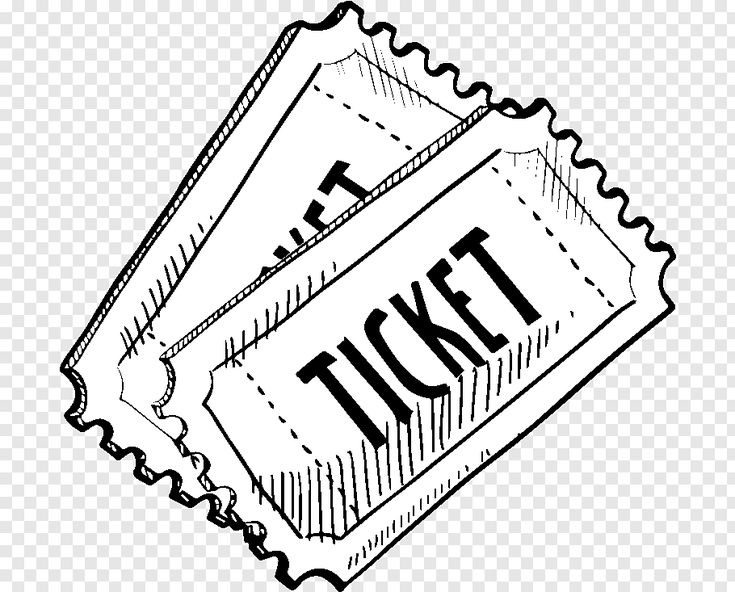
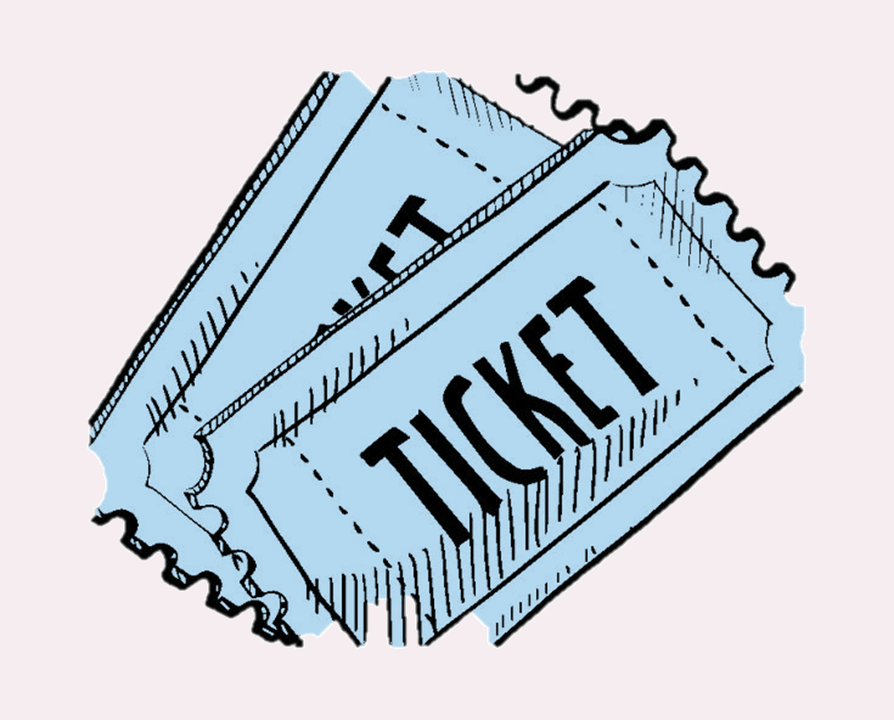
Uređivanje pozadine zaglavlja

diff --git a/zavrsni_rad.hr/css/app.css b/zavrsni_rad.hr/css/app.css
@@ -4,14 +4,14 @@ body{
 
 .callout
 {
-    background-color: rgba(245, 237, 239, 0.867);
-    background-image: url('../pozadina.png');
+    background-color: rgba(245, 237, 239);
+    background-image: url("../pozadina.png");
     background-size: 10%;
     background-repeat: no-repeat;
-    background-position-x: 40%;
-    background-position-y: 80%;
-    background-blend-mode:calc(20%);
-
+    background-position-x: 15%;
+    background-position-y: 5%;
+    
+    border-radius: 10px;
     
     min-height: 150px;
     width: 100%;
@@ -160,5 +160,5 @@ a:hover{
 
 span {
     float: right;
-    
+      
 }

diff --git a/zavrsni_rad.hr/korisnik.php b/zavrsni_rad.hr/korisnik.php
@@ -11,12 +11,12 @@
       <div class="callout clearfix">
             <h3 style="color:black;">KARTE.HR</h3>
             <h6>Najveći online distributer ulaznica na području Hrvatske</h6>
-            <span class="warning label"><a href="index.php">Odjava</a></span>
-            <span class="success label" style="padding-left:5px; margin-right: 10px;">Moji podaci</span>
+            <span style="padding-left:5px; margin-right: 10px; color:green;"><a href="index.php">Odjava</a></span>
+            <span style="padding-left:5px; margin-right: 10px; color:green;"><a href="#0">Moji podaci</a></span>
 
-            <span class="success label" style="padding-left:5px; margin-right: 10px;">
+            <span style="padding-left:5px; margin-right: 10px; ">
                 <?php echo $_GET['ime'].' '.$_GET['prezime'];?>
-            </span>
+          </span>
             
       </div>
      

diff --git a/zavrsni_rad.hr/login.php b/zavrsni_rad.hr/login.php
@@ -51,7 +51,7 @@
   
   <div class="grid-x grid-margin-x">
     <fieldset class="cell medium-6" style="padding-left: 30px;">
-      <button class="button" type="submit" value="Submit"><a href="korisnik.php?ime=Ivan&prezime=Sambol">Potvrdi</a></button>
+      <button class="button" type="submit" value="Submit">Potvrdi</button>
     </fieldset>
     <fieldset class="cell medium-6">
       <button class="button" type="reset" value="Reset">Poništi</button>
